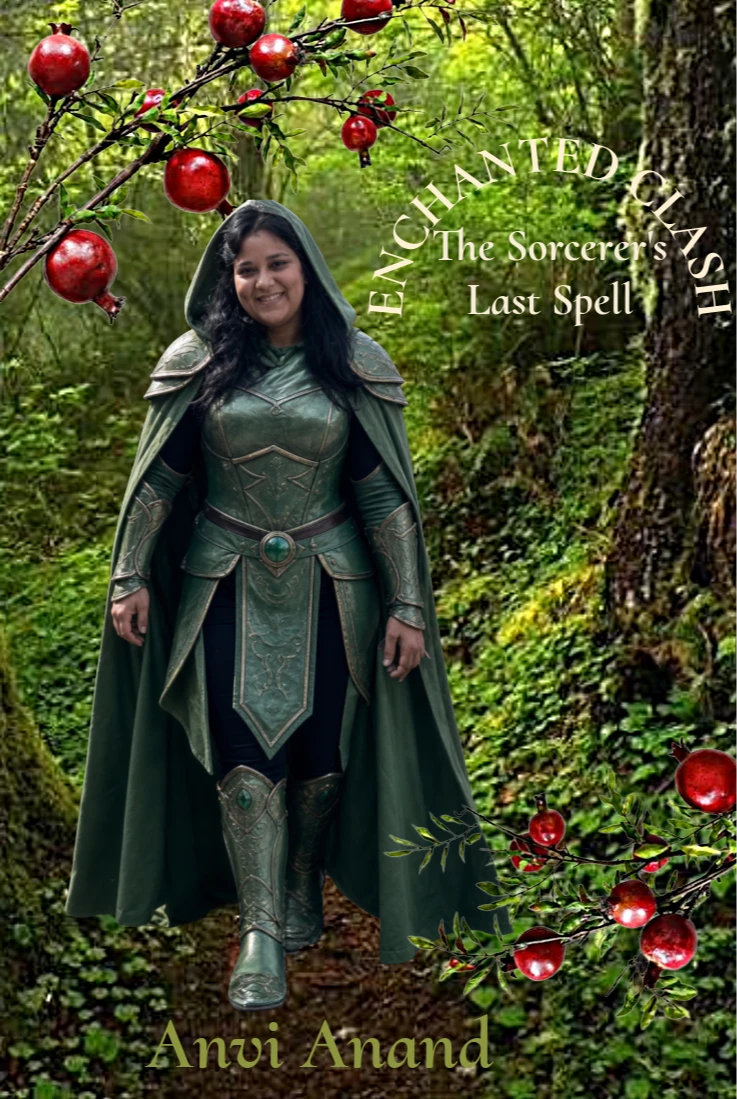
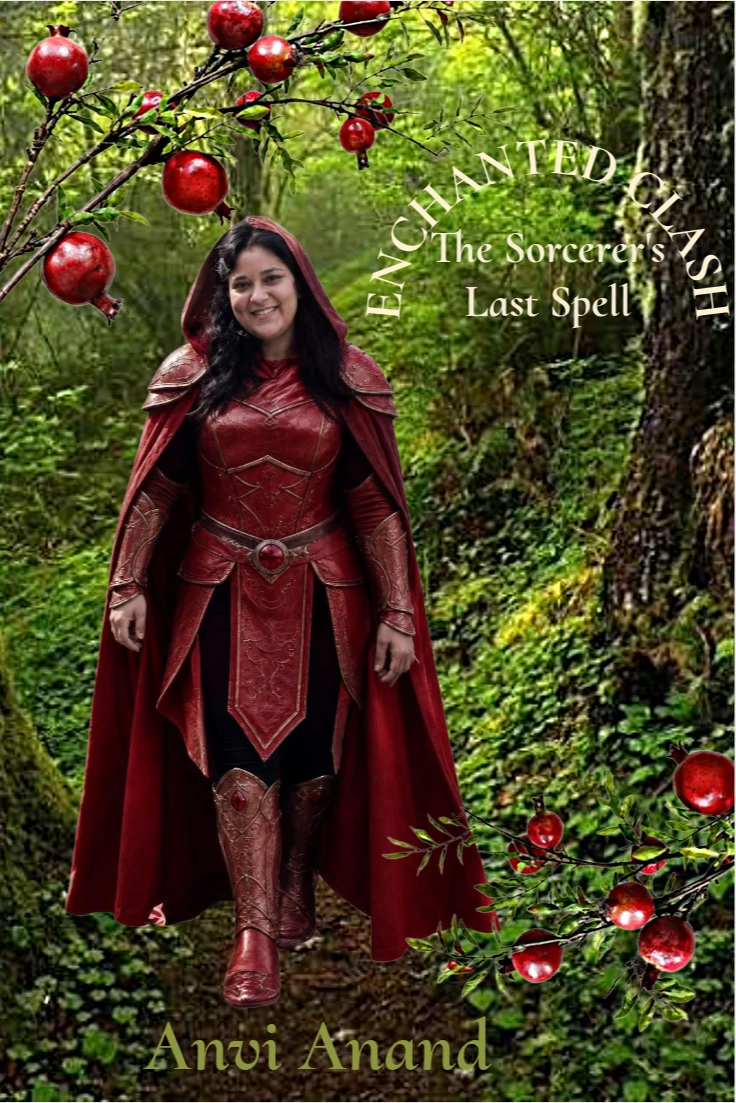
Update Sapphire Bay art, cover, blurb and sneak peek; keep corner art clear of text; ruby armor and new Enchanted Clash cover

diff --git a/script.js b/script.js
@@ -1,9 +1,74 @@
-// Size the corner art so the top sword's tip ends at the left edge of the word "Welcome!".
-// It always measures "Welcome!" (not the page's own title), so the art is the same size on every page.
-// (the sword tip sits 445px across the 461px-wide image).
-function sizeCorners() {
+// Corner art layout.
+// 1. Base size: the top art ends at the left edge of the word "Welcome!" (measured the same way on every page,
+//    so the art is the same size everywhere). The sword-tip image's tip sits 445px across a 461px-wide image.
+// 2. Then check the real artwork pixels against every line of text: shrink the top art if it would touch the
+//    title block, push the page content down if it would touch the sections below, and add space at the
+//    bottom so the bottom art never touches the last paragraphs.
+var GAP = 14;      // minimum clear space (px) between the art and any text
+var MASK_W = 160;  // resolution of the alpha mask used for hit-testing
+var masks = {};
+
+function getMask(img) {
+  var src = img.currentSrc || img.src;
+  if (masks[src]) return masks[src];
+  var w = MASK_W, h = Math.round(MASK_W * img.naturalHeight / img.naturalWidth);
+  var c = document.createElement('canvas');
+  c.width = w; c.height = h;
+  var ctx = c.getContext('2d', { willReadFrequently: true });
+  ctx.drawImage(img, 0, 0, w, h);
+  var a = new Uint8Array(w * h).fill(1); // fallback (e.g. opened from a file): treat the whole box as art
+  try {
+    var d = ctx.getImageData(0, 0, w, h).data;
+    for (var i = 0; i < w * h; i++) a[i] = d[i * 4 + 3] > 25 ? 1 : 0;
+  } catch (e) {}
+  return (masks[src] = { w: w, h: h, a: a });
+}
+
+// Does the art (its visible pixels) come within GAP of this rectangle?
+function touches(img, flipped, r) {
+  var m = getMask(img), rc = img.getBoundingClientRect(), s = rc.width / m.w;
+  var l = r.left - GAP, t = r.top - GAP, rr = r.right + GAP, b = r.bottom + GAP;
+  var x0, x1, y0, y1;
+  if (flipped) { x0 = (rc.right - rr) / s; x1 = (rc.right - l) / s; y0 = (rc.bottom - b) / s; y1 = (rc.bottom - t) / s; }
+  else { x0 = (l - rc.left) / s; x1 = (rr - rc.left) / s; y0 = (t - rc.top) / s; y1 = (b - rc.top) / s; }
+  x0 = Math.max(0, Math.floor(x0)); y0 = Math.max(0, Math.floor(y0));
+  x1 = Math.min(m.w - 1, Math.ceil(x1)); y1 = Math.min(m.h - 1, Math.ceil(y1));
+  for (var y = y0; y <= y1; y++) for (var x = x0; x <= x1; x++) if (m.a[y * m.w + x]) return true;
+  return false;
+}
+
+// Rectangles of every line of text (and the cover picture) inside a container
+function textRects(root) {
+  var out = [], tw = document.createTreeWalker(root, NodeFilter.SHOW_TEXT), n;
+  while ((n = tw.nextNode())) {
+    if (!n.textContent.trim()) continue;
+    var rg = document.createRange();
+    rg.selectNodeContents(n);
+    var list = rg.getClientRects();
+    for (var i = 0; i < list.length; i++) if (list[i].width > 0) out.push(list[i]);
+  }
+  root.querySelectorAll('img.cover').forEach(function (c) { out.push(c.getBoundingClientRect()); });
+  return out;
+}
+
+function anyTouch(img, flipped, rects) {
+  for (var i = 0; i < rects.length; i++) if (touches(img, flipped, rects[i])) return true;
+  return false;
+}
+
+function layoutCorners() {
   var main = document.querySelector('main');
-  var h1 = document.querySelector('main h1');
+  var tl = document.querySelector('.corner.tl'), br = document.querySelector('.corner.br');
+  var root = document.documentElement;
+  if (!main) return;
+
+  // Reset anything added by an earlier pass
+  var firstAbout = document.querySelector('.about');
+  if (firstAbout) firstAbout.style.marginTop = '';
+  document.body.style.paddingBottom = '';
+
+  // 1. Base size from the word "Welcome!"
+  var h1 = main.querySelector('h1');
   var tmp = null;
   if (!h1) { tmp = h1 = document.createElement('h1'); main.appendChild(tmp); } // page with no title text
   var probe = document.createElement('span');
@@ -15,11 +80,53 @@ function sizeCorners() {
   if (tmp) main.removeChild(tmp);
   var mr = main.getBoundingClientRect();
   var left = mr.left + mr.width / 2 - wordWidth / 2 + window.scrollX;
-  var gap = 16;
-  var w = Math.max(100, (left - gap) * 461 / 445);
-  document.documentElement.style.setProperty('--corner-w', w + 'px');
+  var w = Math.max(100, (left - 16) * 461 / 445);
+  root.style.setProperty('--corner-w', w + 'px');
+
+  if (!tl || !br || !tl.complete || !tl.naturalWidth) return;
+
+  // 2. Shrink the top art until it clears the title block
+  var heroRects = textRects(main);
+  var tries = 0;
+  while (anyTouch(tl, false, heroRects) && w > 40 && tries++ < 80) {
+    w *= 0.97;
+    root.style.setProperty('--corner-w', w + 'px');
+  }
+
+  // 3. Push the sections below down until the top art clears them
+  if (firstAbout) {
+    var push = 0;
+    tries = 0;
+    while (anyTouch(tl, false, collect('.about')) && tries++ < 120) {
+      push += 8;
+      firstAbout.style.marginTop = push + 'px';
+    }
+  }
+
+  // 4. Add room at the bottom until the bottom art clears all text
+  var padB = 0;
+  tries = 0;
+  while (anyTouch(br, true, collect('main, .about')) && tries++ < 150) {
+    padB += 8;
+    document.body.style.paddingBottom = padB + 'px';
+  }
 }
-sizeCorners();
+
+function collect(sel) {
+  var out = [];
+  document.querySelectorAll(sel).forEach(function (s) { out = out.concat(textRects(s)); });
+  return out;
+}
+
+function whenReady() {
+  var imgs = document.querySelectorAll('.corner'), pending = 0;
+  imgs.forEach(function (im) {
+    if (!im.complete) { pending++; im.addEventListener('load', function () { if (!--pending) layoutCorners(); }); }
+  });
+  if (!pending) layoutCorners();
+}
+whenReady();
+
 // Tap/click support for the My Writing dropdown (hover also works on desktop)
 var dd = document.querySelector('.dropdown');
 var btn = dd.querySelector('.drop-btn');
@@ -30,5 +137,5 @@ btn.addEventListener('click', function () {
 document.addEventListener('click', function (e) {
   if (!dd.contains(e.target)) { dd.classList.remove('open'); btn.setAttribute('aria-expanded', false); }
 });
-window.addEventListener('resize', sizeCorners);
-window.addEventListener('load', sizeCorners);
+window.addEventListener('resize', layoutCorners);
+window.addEventListener('load', layoutCorners);

diff --git a/the-sorcerers-last-spell.html b/the-sorcerers-last-spell.html
@@ -80,7 +80,7 @@
     <p>The words of the prophecy ring in Anar’s mind as she grooms Phool. But there is nothing she can do about it. Harold soon recovers and is released from the infirmary. However, every time he sleeps, he has lots of horrible nightmares. He describes some of these to Emma, Emeralda, and Anar and they are horrified.</p>
     <p>Remembering the prophecy, Anar asks Emma if she can go after Malkallam. Emma refuses. So Anar asks Harold. He agrees under these conditions. That she travel with her sling ever ready to use, go with both Phool and her dragon Dhuaan, take her magic pomegranate in case she needs her Seedfolks, and carry three communicating crystals; one for Emeralda, one for Gilbert, the knight and fairy of the oakleaf, and one for the legendary Ron, a King’s Watchman.</p>
     <div class="divider"><img src="dividers/divider-2.png" alt="" style="width:6.5em"></div>
-    <p>Anar agrees, packs up her kit, with her sling, lead missiles, compass, magic pomegranate, wand, cloak, communicating crystals, travel rations, apples, berries, tent, jade armor, and a canteen of pomegranate juice, and heads off to the stables. She grabs her saddle, bridle, and saddlebags. She saddles up Phool and fills her saddlebags.</p>
+    <p>Anar agrees, packs up her kit, with her sling, lead missiles, compass, magic pomegranate, wand, cloak, communicating crystals, travel rations, apples, berries, tent, ruby armor, and a canteen of pomegranate juice, and heads off to the stables. She grabs her saddle, bridle, and saddlebags. She saddles up Phool and fills her saddlebags.</p>
     <p>She leads Phool outside, tethers her to a tree, and brings Dhuaan. She puts a second saddlebag on Dhuaan, so whatever she would not need easy reach to, she could keep separate. All that remains with Phool is her pomegranate, lead missiles, sling, compass, armor, communicating crystals, wand, and canteen. The rest is with Dhuaan. Dhuaan blows out a puff of smoke signifying that he is ready.</p>
     <div class="divider"><img src="dividers/divider-2.png" alt="" style="width:6.5em"></div>
     <p>Anar climbs into Phool's saddle and they take off. They fly south, as that is the only land that Malkallam could find in the country of Ghelder. Occasionally, Anar checks their direction on her compass and corrects their course, or takes a swig from her canteen.</p>
@@ -145,7 +145,7 @@
     <p>They create a plan to sack the castle. Anar will call Emeralda, Emma, and Harold and have them distract the Schlobs and she and Gilbert will be inside finding Malkallam. They will then become their symbols with wings and fly away. (When you lose your position as a fairy, you lose your wings and wand and any other magic items.) Once they found Malkallam, they would bring him outside, release the Seedfolks and an army of oakleaves and battle him and his remaining Schlobs.</p>
     <div class="divider"><img src="dividers/divider-4.png" alt="" style="width:6.5em"></div>
     <p>They put this plan in motion by gathering all they need and relieving the animals of the rest. The rest will stay in a hidden crevice in the campsite. They only keep their weapons, wands, communicating crystals, and canteens.</p>
-    <p>For Anar, weapons means sling, least missiles, Gilbert's backup sword and shield, and armor made of the strongest jade. For Gilbert this means his pen sword, wristwatch shield, and crystal armor. He had procured this armour from the crystal mountains in the northwest of Ghelder.</p>
+    <p>For Anar, weapons means sling, least missiles, Gilbert's backup sword and shield, and armor made of the strongest ruby. For Gilbert this means his pen sword, wristwatch shield, and crystal armor. He had procured this armour from the crystal mountains in the northwest of Ghelder.</p>
     <div class="divider"><img src="dividers/divider-4.png" alt="" style="width:6.5em"></div>
     <p>Anar pulls out her communicating crystal that connects with Emeralda and calls her sister. Emeralda picks up and Anar tells her her plan. Emeralda says she will bring Emma, Harold, and their unicorns and dragons.</p>
     <p>They appear some minutes later with their battle kits. It is time to free the kingdom.</p>

diff --git a/sapphire-bay.html b/sapphire-bay.html
@@ -29,9 +29,13 @@
   </main>
   <section class="about">
     <h2>About</h2>
-    <img class="cover" src="book-cover.webp" alt="Placeholder cover for Sapphire Bay">
+    <img class="cover" src="sapphire-bay-cover.webp" alt="Cover of Sapphire Bay: Talons of Tide and Ice">
     <p>Single Novella<br>Fantasy</p>
     <p>Status: In Progress</p>
+    <p>When Nightlets begin stealing the healing clams that the Water Dragons depend on, the signs of an approaching war become impossible to ignore. But the danger runs deeper than anyone realizes.</p>
+    <p>Galeana, Keeper of the Water Dragons, turns to the Star Dragons for answers. What she receives is a prophecy foretelling a storm that could change the fate of the world. Only the Water Dragons and Ice Dragons can restore the balance—but their enemies are already gathering.</p>
+    <p>Together with Glacioron, Keeper of the Ice Dragons, Galeana sets out to find allies and uncover the truth behind the growing threat. With Fire and Earth rising in a dark alliance, the two dragons must discover whether the prophecy will lead their world to salvation or destruction.</p>
+    <p>Can Tide and Ice stand together before the world falls?</p>
   </section>
   <script src="script.js"></script>
 </body>

diff --git a/sapphire-bay-sneak-peek.html b/sapphire-bay-sneak-peek.html
@@ -21,11 +21,11 @@
     </div>
   </nav>
   <main class="cover-page">
-    <img class="full-cover" src="book-cover.webp" alt="Placeholder cover for Sapphire Bay">
+    <img class="full-cover" src="sapphire-bay-cover.webp" alt="Cover of Sapphire Bay: Talons of Tide and Ice">
   </main>
   <section class="about story">
     <h2>Prologue</h2>
-    <p>The sneak peek for Sapphire Bay will be posted here soon.</p>
+    <p>A deep sea blue dragon stepped out from behind a rock. “We need to do something,” he said. “The Nightlets are stealing more healing clams than ever before. They are clearly preparing for war, and if they are, we will need them more than ever!” Another dragon, this time sea green, swooped down. She responded, “ I have seen this in the future. But it is the Water Dragons and Ice Dragons alone who can save this. We Star Dragons have done our part. All we can do to help will be to send a prophecy. She will come to us soon and we will be ready.”</p>
   </section>
   <script src="script.js"></script>
 </body>
